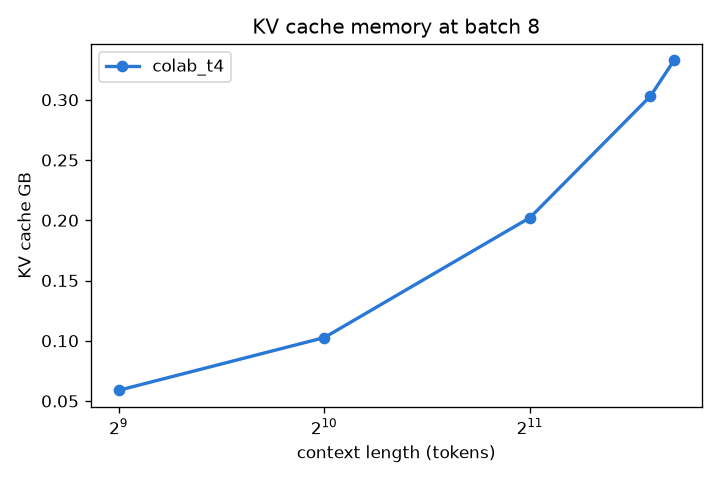
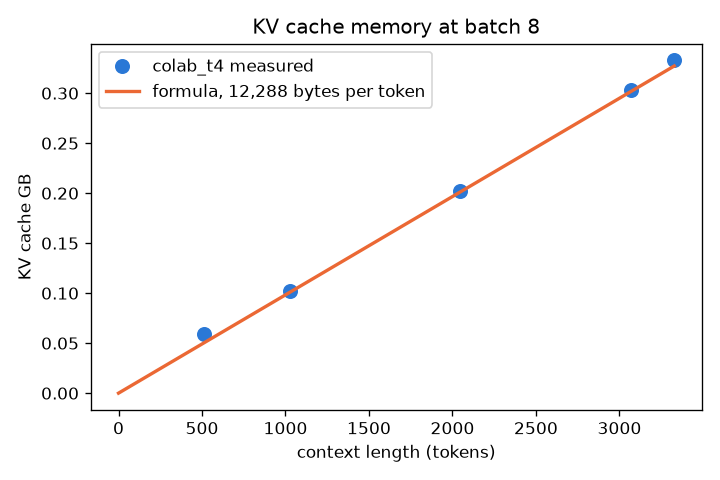
Add batch 256 ranking, method notes and linear KV plot to metrics

diff --git a/GPU-assignments/GPU-Lab-2/scripts/report.py b/GPU-assignments/GPU-Lab-2/scripts/report.py
@@ -55,6 +55,9 @@ for c in cards:
       + (f"Training {len(extra)} more epochs cost {sum(e['epoch_s'] for e in extra):.1f} s and moved validation loss "
          f"from {best['val_loss']:.4f} to {h['epochs'][-1]['val_loss']:.4f} (accuracy {best['val_acc']:.4f} to "
          f"{h['epochs'][-1]['val_acc']:.4f}).\n" if extra else "No epochs were trained past it.\n"))
+    top = max(h["epochs"], key=lambda e: e["val_acc"])
+    W(f"Validation accuracy peaked at epoch {top['epoch']} ({top['val_acc']:.4f}), later than validation loss. "
+      f"The saved model and all test numbers below come from the final epoch {h['epochs'][-1]['epoch']} model.\n")
     W(f"Test accuracy after save and reload: {h['test_acc']:.4f}. "
       f"**Peak GPU memory {h['peak_gb']:.2f} GB, training wall clock {h['train_s']:.1f} s** (HW4.5 baseline only).\n")
     names = [p["cls"] for p in h["per_class"]]
@@ -63,7 +66,7 @@ for c in cards:
     table(["Class", "Precision", "Recall", "F1", "Support"],
           [[p["cls"], f"{p['precision']:.3f}", f"{p['recall']:.3f}", f"{p['f1']:.3f}", p["n"]] for p in h["per_class"]])
     W(f"Worst class (lowest F1): **{h['worst_class']}**. Five misclassified examples, diagnosis in ANALYSIS.md:\n")
-    table(["#", "Tweet", "Predicted"], [[i + 1, m["text"].replace("|", "/").replace("\n", " "), m["pred"]]
+    table(["#", "Tweet", "Predicted"], [[i + 1, m["text"].replace("|", "/").replace("\n", " ").replace("\\u2019", "'") + (" (sic: the apostrophe is stored escaped in the dataset)" if "\\u2019" in m["text"] else ""), m["pred"]]
                                         for i, m in enumerate(h["misclassified"])])
     table(["Custom input", "Prediction"], [[x["text"], x["pred"]] for x in h["custom"]])
     fig, ax = plt.subplots(1, 2, figsize=(9, 3.5))
@@ -95,6 +98,9 @@ for c in cards:
         W(f"Model `{s['model']}`, fp16, {s['new_tokens']} new tokens per request, greedy. Prompt: \"{s['prompt']}\"\n")
         table(["Configuration", "Tokens/sec", "p50 latency (ms)", "p95 latency (ms)"], serve_rows(c, "hw4"))
         W("Sample output: " + s["sample_output"].replace("\n", " ")[:400] + "\n")
+        W("Method: latency is the time for the whole batch call to finish, every request generates exactly 128 tokens "
+          "(ignore_eos), and time to first token is not measured. The 8 prompts repeat inside the batch 8 and 32 runs, "
+          "so vLLM prefix caching may help those slightly.\n")
 
 # HW4.5 Part A
 W("## HW4.5 Part A, batch scaling to the memory wall\n")
@@ -120,6 +126,13 @@ ax.legend()
 fig.tight_layout()
 fig.savefig(os.path.join(FIG, "part_a_throughput.png"), dpi=120)
 W("![throughput](figures/part_a_throughput.png)\n")
+W("Method: each row is timed over 5 steps after 2 warmup steps on randomly sampled batches, and Epoch s is extrapolated "
+  "as 3500 / samples per second, not measured. These short timings are optimistic: at batch 32 they give 106.8 samples/s "
+  "and 32.8 s per epoch, while the sustained Part B baseline ran at 91.9 samples/s (about 14% lower) and the measured "
+  "HW4.a epochs took 37 to 44 s.\n")
+if len(maxb) < 2:
+    W("Only one card was used (the TA confirmed one GPU is enough), so the max batch ratio between two cards is not "
+      "measured. ANALYSIS.md gives a worked projection instead.\n")
 if len(maxb) == 2:
     c1, c2 = sorted(maxb, key=lambda c: -R[c]["part_a"]["gpu"]["vram_gb"])
     v1, v2 = R[c1]["part_a"]["gpu"]["vram_gb"], R[c2]["part_a"]["gpu"]["vram_gb"]
@@ -134,7 +147,7 @@ for c in cards:
         continue
     W(f"### Table HW4.5.1 on {c} (AMP dtype {b['amp_dtype']})\n")
     table(["Technique", "Max batch", "Throughput (samp/s)", "Peak memory (GB)", "Eval accuracy", "Wall s", "Notes"],
-          [[r["technique"], r["max_batch"], f"{r['samples_per_s']:.1f}", f"{r['peak_gb']:.2f}", f"{r['test_acc']:.4f}",
+          [[r["technique"], "n/a" if r["technique"] == "Gradient accumulation" else r["max_batch"], f"{r['samples_per_s']:.1f}", f"{r['peak_gb']:.2f}", f"{r['test_acc']:.4f}",
             f"{r['wall_s']:.1f}", f"{r['optimizer']}, effective batch {r['effective_batch']}, {r['opt_steps']} optimiser steps"]
            for r in b["rows"]])
     base = b["rows"][0]
@@ -143,10 +156,33 @@ for c in cards:
         saved, lost = base["peak_gb"] - r["peak_gb"], base["samples_per_s"] - r["samples_per_s"]
         rank.append((saved / lost if lost > 0 else float("inf"), r["technique"], saved, lost))
     rank.sort(reverse=True)
-    W("Ranking by memory saved per unit of throughput lost (peak GB at the training batch, samples/s):\n")
+    W("Gradient accumulation has no max batch of its own: per step memory is set by the physical batch of 16, so it is "
+      "marked n/a. Its run trained 436 optimiser steps x 128 samples = 55,808 samples, about 16 epochs over 3500 rows. "
+      "The training loop also dropped the last 2 of the 218 micro batches in each epoch (218 is not a multiple of 8).\n")
+    W("Ranking at the training batch of 32 (peak GB saved per samples/s lost):\n")
     table(["Rank", "Technique", "GB saved", "Samples/s lost", "GB saved per samp/s lost"],
           [[i + 1, t, f"{s:.3f}", f"{l:.1f}", "no throughput lost" if x == float("inf") else f"{x:.4f}"]
            for i, (x, t, s, l) in enumerate(rank)])
+    pr = R[c].get("part_b_probes", {}).get("probes")
+    if pr:
+        at = lambda k: next(r for r in pr[k] if r["batch"] == 256)
+        b0 = at("Part A baseline")
+        rows256, rank256 = [], []
+        for k in ("Part A baseline", "Mixed precision", "Gradient checkpointing", "8-bit optimiser", "Best combination"):
+            r = at(k)
+            rows256.append([k.replace("Part A baseline", "Baseline"), f"{r['peak_gb']:.2f}", f"{r['samples_per_s']:.1f}"])
+            if k not in ("Part A baseline", "Best combination"):
+                saved, lost = b0["peak_gb"] - r["peak_gb"], b0["samples_per_s"] - r["samples_per_s"]
+                rank256.append((saved / lost if lost > 0 else float("inf"), k, saved, lost))
+        rank256.sort(reverse=True)
+        W("Same techniques at batch 256, from the max batch probe runs (5 timed steps each, so throughput is optimistic):\n")
+        table(["Batch 256", "Peak GB", "Samples/s"], rows256)
+        W("Ranking at batch 256 (accumulation has no batch 256 run):\n")
+        table(["Rank", "Technique", "GB saved", "Samples/s lost", "GB saved per samp/s lost"],
+              [[i + 1, t, f"{s:.2f}", f"{l:.1f}", "no throughput lost" if x == float("inf") else f"{x:.3f}"]
+               for i, (x, t, s, l) in enumerate(rank256)])
+        W("The ranking depends on batch size. At batch 32 activations are small, so checkpointing saves little and ranks "
+          "last. At batch 256 activations dominate, so checkpointing saves 8.7 GB and ranks above the 8 bit optimiser.\n")
 
 # Part C
 W("## HW4.5 Part C, distributed data parallel\n")
@@ -177,6 +213,8 @@ for c in cards:
     if serve_rows(c, "partd"):
         W(f"**{c}**, vLLM rerun:\n")
         table(["Configuration", "Tokens/sec", "p50 latency (ms)", "p95 latency (ms)"], serve_rows(c, "partd"))
+        W("Same card type, same fp16 precision and same script as HW4, 4% to 7% slower. That size of gap is run to run "
+          "variation (host CPU load and GPU clocks), not a change in hardware or precision.\n")
 fig, ax = plt.subplots(figsize=(6, 4))
 for i, c in enumerate(cards):
     k = R[c].get("part_d_kv")
@@ -184,14 +222,21 @@ for i, c in enumerate(cards):
         continue
     ok = [r for r in k["rows"] if not r["oom"]]
     W(f"**{c}** KV cache at batch {k['batch']} (`{k['model']}`, {k['kv_bytes_per_token']} bytes per token, "
-      f"native max position {k['max_position']}). Longest context that fits: **{k['longest_ok']}**, "
-      f"shortest that fails: {k['shortest_fail']}.\n")
+      f"native max position {k['max_position']}). Longest context measured with HF prefill: **{k['longest_ok']}** "
+      f"(fails at {k['shortest_fail']}). The KV cache is only a small part of the peak: memory runs out on the attention "
+      f"scores, which grow with the square of the context.\n")
+    W("vLLM capacity at batch 8 is **calculated, not tested**: both vLLM runs used max_model_len 2048, and that engine "
+      "logged a KV pool of 9.9 GiB = 865,456 tokens on this T4. 865,456 / 8 = 108,182 tokens per sequence, so the KV "
+      f"pool alone would cover the model's native maximum of {k['max_position']} at batch 8. A run with max_model_len "
+      f"{k['max_position']} and 8 long prompts would be needed to confirm it.\n")
     table(["Context", "KV measured GB", "KV formula GB", "Peak GB"],
           [[r["context"], "OOM", "", ""] if r["oom"] else
            [r["context"], f"{r['kv_gb']:.3f}", f"{r['kv_formula_gb']:.3f}", f"{r['peak_gb']:.2f}"] for r in k["rows"]])
-    ax.plot([r["context"] for r in ok], [r["kv_gb"] for r in ok], "o-", c=COLORS[i % 3], lw=2, label=c)
+    ax.plot([r["context"] for r in ok], [r["kv_gb"] for r in ok], "o", c=COLORS[i % 3], ms=8, label=f"{c} measured")
+    xs = [0, max(r["context"] for r in ok)]
+    ax.plot(xs, [x * k["batch"] * k["kv_bytes_per_token"] / 1e9 for x in xs], "-", c=COLORS[1], lw=2,
+            label="formula, 12,288 bytes per token")
 ax.set(xlabel="context length (tokens)", ylabel="KV cache GB", title="KV cache memory at batch 8")
-ax.set_xscale("log", base=2)
 ax.legend()
 fig.tight_layout()
 fig.savefig(os.path.join(FIG, "part_d_kv.png"), dpi=120)
@@ -206,9 +251,12 @@ for c in cards:
     n = h["data"]["n_total"]
     samples = int(0.7 * n) * h["settings"]["epochs"]
     W(f"**{c}**: full fine tune = 70% of {n} tweets x {h['settings']['epochs']} epochs = {samples} training samples.\n")
-    table(["Configuration", "Samples/s", "Hours = samples / (samples/s x 3600)"],
-          [[r["technique"], f"{r['samples_per_s']:.1f}", f"{samples / r['samples_per_s'] / 3600:.3f} GPU hours"]
-           for r in b["rows"]])
+    one = int(0.7 * n)
+    table(["Configuration", "Samples/s", f"{h['settings']['epochs']} epochs, GPU hours", "1 epoch, GPU hours"],
+          [[r["technique"], f"{r['samples_per_s']:.1f}", f"{samples / r['samples_per_s'] / 3600:.3f}",
+            f"{one / r['samples_per_s'] / 3600:.3f}"] for r in b["rows"]])
+    W("GPU hours = samples / (samples per second x 3600). Validation loss stopped improving after epoch 1, so the "
+      "1 epoch column is the realistic cost.\n")
     rows = b["rows"]
     lo = min(rows, key=lambda r: r["peak_gb"])
     fast = max(rows, key=lambda r: r["samples_per_s"])

diff --git a/GPU-assignments/GPU-Lab-2/METRICS.md b/GPU-assignments/GPU-Lab-2/METRICS.md
@@ -2,7 +2,7 @@
 
 SJSU ID 018205330, SID4 5330, SEED 5330, SLICE 330.
 
-Cards: **colab_t4** Tesla T4, 15.6 GB. UUID GPU-e98b1f84-8d7b-50bb-a5c6-96b3440c7e56: hw4a, part_d_kv, serve_hf_hw4, serve_vllm_hw4, serve_vllm_partd; UUID GPU-72d7994b-bdfd-5779-ea43-fbfd70d47b68: part_a, part_b
+Cards: **colab_t4** Tesla T4, 15.6 GB. UUID GPU-e98b1f84-8d7b-50bb-a5c6-96b3440c7e56: hw4a, part_d_kv, serve_hf_hw4, serve_vllm_hw4, serve_vllm_partd; UUID GPU-72d7994b-bdfd-5779-ea43-fbfd70d47b68: part_a, part_b, part_b_probes
 
 ## HW4.a BERT fine tune on colab_t4
 
@@ -16,6 +16,8 @@ Dataset cardiffnlp/tweet_eval (sentiment, train split). Rows 330 to 5329 of 4561
 | 4 | 0.2001 | 0.9802 | 0.6760 | 43.6 |
 
 Validation loss stopped improving after epoch 1. Training 3 more epochs cost 122.8 s and moved validation loss from 0.7182 to 0.9802 (accuracy 0.6733 to 0.6760).
+
+Validation accuracy peaked at epoch 3 (0.6880), later than validation loss. The saved model and all test numbers below come from the final epoch 4 model.
 
 Test accuracy after save and reload: 0.6587. **Peak GPU memory 2.65 GB, training wall clock 160.2 s** (HW4.5 baseline only).
 
@@ -37,7 +39,7 @@ Worst class (lowest F1): **negative**. Five misclassified examples, diagnosis in
 
 | # | Tweet | Predicted |
 |---|---|---|
-| 1 | @user She\u2019s invited. And Ash may not go because of her. And I want Ash to be there because his AE helped mine through some stuff.. | neutral |
+| 1 | @user She's invited. And Ash may not go because of her. And I want Ash to be there because his AE helped mine through some stuff.. (sic: the apostrophe is stored escaped in the dataset) | neutral |
 | 2 | You may remember Frank Gifford as a great football player or broadcaster. But I remember him as the guy who wanted anal from a stewardess | neutral |
 | 3 | "It's simple, we want to be like Israel, a white Israel.  If that's a bad thing, so is current Israel. | neutral |
 | 4 | Please pull down Tom Brady's pants and undress the cheaters on Thursday night @user | neutral |
@@ -64,6 +66,8 @@ Model `Qwen/Qwen2.5-0.5B-Instruct`, fp16, 128 new tokens per request, greedy. Pr
 
 Sample output: To a ten-year-old, the sky being blue is a fascinating and awe-inspiring phenomenon. Here are some reasons why the sky appears blue to a child:  1. **Color Mixing**: The sky is made up of various colors, including blue, green, and white. When light passes through the atmosphere, it is refracted and scattered, causing the colors to mix and blend together. The blue light from the sun is the most dom
 
+Method: latency is the time for the whole batch call to finish, every request generates exactly 128 tokens (ignore_eos), and time to first token is not measured. The 8 prompts repeat inside the batch 8 and 32 runs, so vLLM prefix caching may help those slightly.
+
 ## HW4.5 Part A, batch scaling to the memory wall
 
 **colab_t4**: largest batch 256, first OOM at 512. Throughput stops improving (within 5% of best) at batch 64.
@@ -83,6 +87,10 @@ Sample output: To a ten-year-old, the sky being blue is a fascinating and awe-in
 
 ![throughput](figures/part_a_throughput.png)
 
+Method: each row is timed over 5 steps after 2 warmup steps on randomly sampled batches, and Epoch s is extrapolated as 3500 / samples per second, not measured. These short timings are optimistic: at batch 32 they give 106.8 samples/s and 32.8 s per epoch, while the sustained Part B baseline ran at 91.9 samples/s (about 14% lower) and the measured HW4.a epochs took 37 to 44 s.
+
+Only one card was used (the TA confirmed one GPU is enough), so the max batch ratio between two cards is not measured. ANALYSIS.md gives a worked projection instead.
+
 ## HW4.5 Part B, memory techniques one at a time
 
 ### Table HW4.5.1 on colab_t4 (AMP dtype torch.float16)
@@ -92,11 +100,13 @@ Sample output: To a ten-year-old, the sky being blue is a fascinating and awe-in
 | Baseline (HW4 settings) | 256 | 91.9 | 2.65 | 0.6480 | 151.8 | AdamW, effective batch 32, 436 optimiser steps |
 | Mixed precision | 512 | 260.9 | 2.40 | 0.6480 | 53.5 | AdamW, effective batch 32, 436 optimiser steps |
 | Gradient checkpointing | 1024 | 66.1 | 2.22 | 0.6480 | 211.2 | AdamW, effective batch 32, 436 optimiser steps |
-| Gradient accumulation | 256 | 90.1 | 2.47 | 0.6333 | 619.7 | AdamW, effective batch 128, 436 optimiser steps |
+| Gradient accumulation | n/a | 90.1 | 2.47 | 0.6333 | 619.7 | AdamW, effective batch 128, 436 optimiser steps |
 | 8-bit optimiser | 256 | 89.8 | 2.01 | 0.6573 | 155.3 | AdamW8bit, effective batch 32, 436 optimiser steps |
 | Best combination | 512 | 263.8 | 1.74 | 0.6520 | 52.9 | AdamW8bit, effective batch 32, 436 optimiser steps |
 
-Ranking by memory saved per unit of throughput lost (peak GB at the training batch, samples/s):
+Gradient accumulation has no max batch of its own: per step memory is set by the physical batch of 16, so it is marked n/a. Its run trained 436 optimiser steps x 128 samples = 55,808 samples, about 16 epochs over 3500 rows. The training loop also dropped the last 2 of the 218 micro batches in each epoch (218 is not a multiple of 8).
+
+Ranking at the training batch of 32 (peak GB saved per samples/s lost):
 
 | Rank | Technique | GB saved | Samples/s lost | GB saved per samp/s lost |
 |---|---|---|---|---|
@@ -104,6 +114,26 @@ Ranking by memory saved per unit of throughput lost (peak GB at the training bat
 | 2 | 8-bit optimiser | 0.641 | 2.1 | 0.3037 |
 | 3 | Gradient accumulation | 0.180 | 1.9 | 0.0958 |
 | 4 | Gradient checkpointing | 0.433 | 25.9 | 0.0168 |
+
+Same techniques at batch 256, from the max batch probe runs (5 timed steps each, so throughput is optimistic):
+
+| Batch 256 | Peak GB | Samples/s |
+|---|---|---|
+| Baseline | 11.71 | 117.7 |
+| Mixed precision | 8.21 | 394.7 |
+| Gradient checkpointing | 3.05 | 70.8 |
+| 8-bit optimiser | 11.05 | 97.4 |
+| Best combination | 7.55 | 406.7 |
+
+Ranking at batch 256 (accumulation has no batch 256 run):
+
+| Rank | Technique | GB saved | Samples/s lost | GB saved per samp/s lost |
+|---|---|---|---|---|
+| 1 | Mixed precision | 3.50 | -277.0 | no throughput lost |
+| 2 | Gradient checkpointing | 8.66 | 46.9 | 0.185 |
+| 3 | 8-bit optimiser | 0.66 | 20.4 | 0.032 |
+
+The ranking depends on batch size. At batch 32 activations are small, so checkpointing saves little and ranks last. At batch 256 activations dominate, so checkpointing saves 8.7 GB and ranks above the 8 bit optimiser.
 
 ## HW4.5 Part C, distributed data parallel
 
@@ -119,7 +149,11 @@ Part C skipped (optional).
 | vLLM, batch 8 | 1202.5 | 850.8 | 855.9 |
 | vLLM, batch 32 | 3323.9 | 1233.5 | 1246.1 |
 
-**colab_t4** KV cache at batch 8 (`Qwen/Qwen2.5-0.5B-Instruct`, 12288 bytes per token, native max position 32768). Longest context that fits: **3328**, shortest that fails: 3584.
+Same card type, same fp16 precision and same script as HW4, 4% to 7% slower. That size of gap is run to run variation (host CPU load and GPU clocks), not a change in hardware or precision.
+
+**colab_t4** KV cache at batch 8 (`Qwen/Qwen2.5-0.5B-Instruct`, 12288 bytes per token, native max position 32768). Longest context measured with HF prefill: **3328** (fails at 3584). The KV cache is only a small part of the peak: memory runs out on the attention scores, which grow with the square of the context.
+
+vLLM capacity at batch 8 is **calculated, not tested**: both vLLM runs used max_model_len 2048, and that engine logged a KV pool of 9.9 GiB = 865,456 tokens on this T4. 865,456 / 8 = 108,182 tokens per sequence, so the KV pool alone would cover the model's native maximum of 32768 at batch 8. A run with max_model_len 32768 and 8 long prompts would be needed to confirm it.
 
 | Context | KV measured GB | KV formula GB | Peak GB |
 |---|---|---|---|
@@ -137,14 +171,16 @@ Part C skipped (optional).
 
 **colab_t4**: full fine tune = 70% of 45615 tweets x 4 epochs = 127720 training samples.
 
-| Configuration | Samples/s | Hours = samples / (samples/s x 3600) |
-|---|---|---|
-| Baseline (HW4 settings) | 91.9 | 0.386 GPU hours |
-| Mixed precision | 260.9 | 0.136 GPU hours |
-| Gradient checkpointing | 66.1 | 0.537 GPU hours |
-| Gradient accumulation | 90.1 | 0.394 GPU hours |
-| 8-bit optimiser | 89.8 | 0.395 GPU hours |
-| Best combination | 263.8 | 0.135 GPU hours |
+| Configuration | Samples/s | 4 epochs, GPU hours | 1 epoch, GPU hours |
+|---|---|---|---|
+| Baseline (HW4 settings) | 91.9 | 0.386 | 0.096 |
+| Mixed precision | 260.9 | 0.136 | 0.034 |
+| Gradient checkpointing | 66.1 | 0.537 | 0.134 |
+| Gradient accumulation | 90.1 | 0.394 | 0.098 |
+| 8-bit optimiser | 89.8 | 0.395 | 0.099 |
+| Best combination | 263.8 | 0.135 | 0.034 |
+
+GPU hours = samples / (samples per second x 3600). Validation loss stopped improving after epoch 1, so the 1 epoch column is the realistic cost.
 
 ### HW4.5 summary on colab_t4
 
